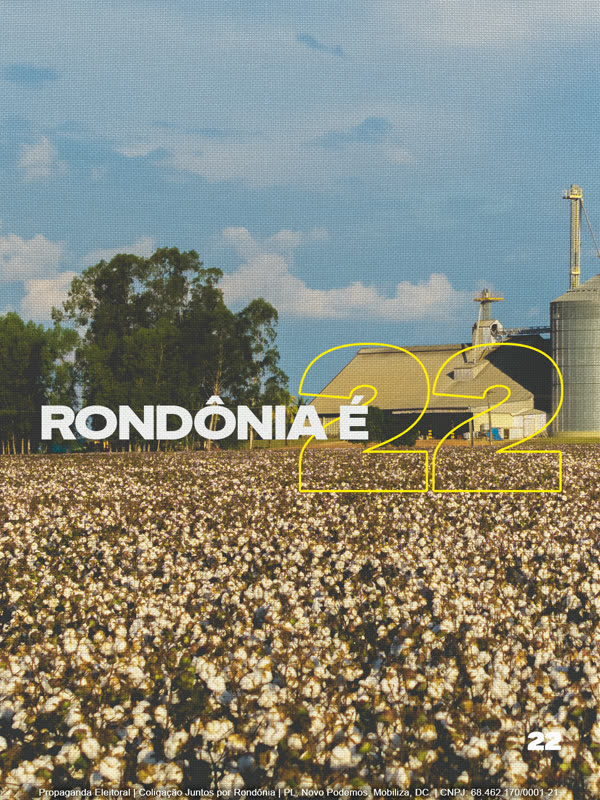
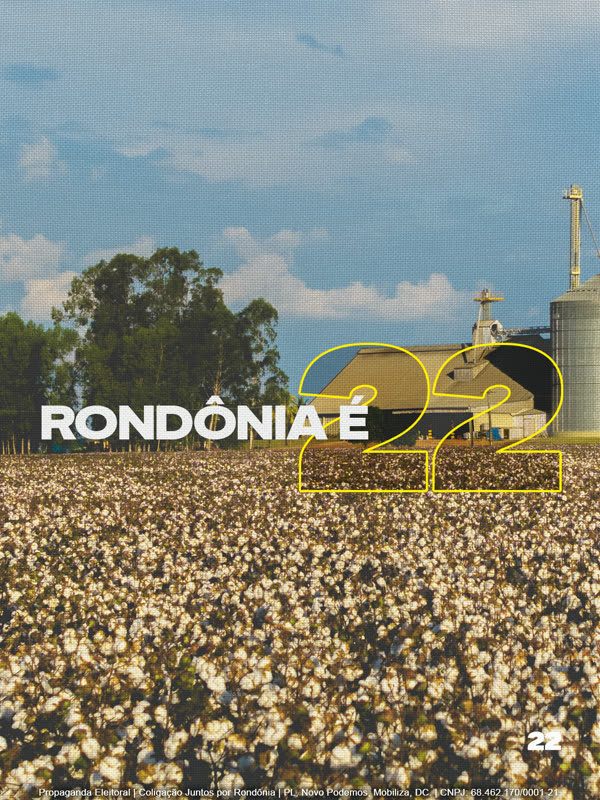
Carrosseis 2026-08-27T21:34:45+00:00

Changed region(s): [[0.48, 0.4062, 0.96, 0.625]]

diff --git a/carrossel-rondonia-e-22/index.html b/carrossel-rondonia-e-22/index.html
@@ -11,7 +11,7 @@
 <meta property="og:title" content="CARROSSEL-RONDÔNIA-É-22">
 <meta property="og:description" content="6 lâminas">
 <meta property="og:url" content="https://silasrcha.github.io/carrosseis/carrossel-rondonia-e-22/">
-<meta property="og:image" content="https://silasrcha.github.io/carrosseis/carrossel-rondonia-e-22/previa.jpg?v=e2e3d21a8ad80a15">
+<meta property="og:image" content="https://silasrcha.github.io/carrosseis/carrossel-rondonia-e-22/previa.jpg?v=490c44a18363d9f2">
 <meta property="og:image:type" content="image/jpeg">
 <meta property="og:image:width" content="600">
 <meta property="og:image:height" content="800">
@@ -114,7 +114,7 @@
 
 <script>
 (() => {
-  const ITENS = [{"tipo": "imagem", "src": "01.png?v=e2e3d21a8ad80a15"}, {"tipo": "imagem", "src": "02.png?v=e2e3d21a8ad80a15"}, {"tipo": "imagem", "src": "03.png?v=e2e3d21a8ad80a15"}, {"tipo": "imagem", "src": "04.png?v=e2e3d21a8ad80a15"}, {"tipo": "imagem", "src": "05.png?v=e2e3d21a8ad80a15"}, {"tipo": "imagem", "src": "06.png?v=e2e3d21a8ad80a15"}];
+  const ITENS = [{"tipo": "imagem", "src": "01.png?v=490c44a18363d9f2"}, {"tipo": "imagem", "src": "02.png?v=490c44a18363d9f2"}, {"tipo": "imagem", "src": "03.png?v=490c44a18363d9f2"}, {"tipo": "imagem", "src": "04.png?v=490c44a18363d9f2"}, {"tipo": "imagem", "src": "05.png?v=490c44a18363d9f2"}, {"tipo": "imagem", "src": "06.png?v=490c44a18363d9f2"}];
   const PROPORCAO_FIXA = null;
 
   const vp = document.getElementById('vp');
@@ -413,7 +413,7 @@
 
 <script>
 (() => {
-  const VERSAO = "e2e3d21a8ad80a15";
+  const VERSAO = "490c44a18363d9f2";
   let ocupado = false;
   async function conferir() {
     if (ocupado || document.hidden) return;
